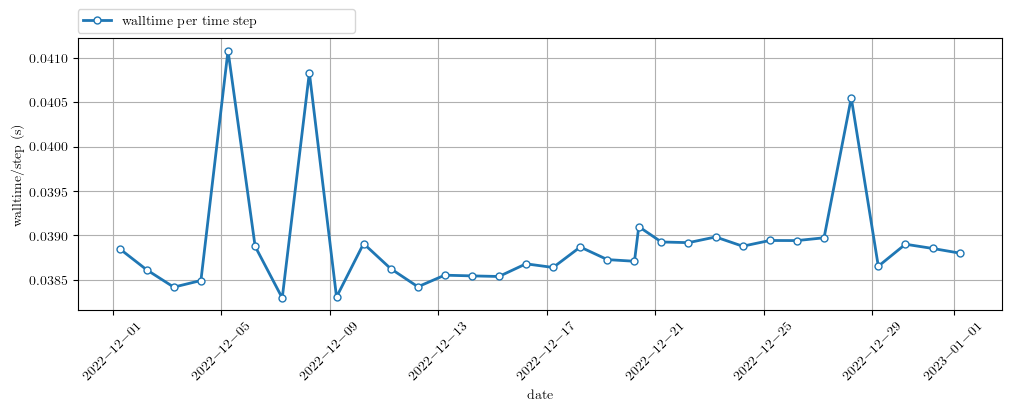
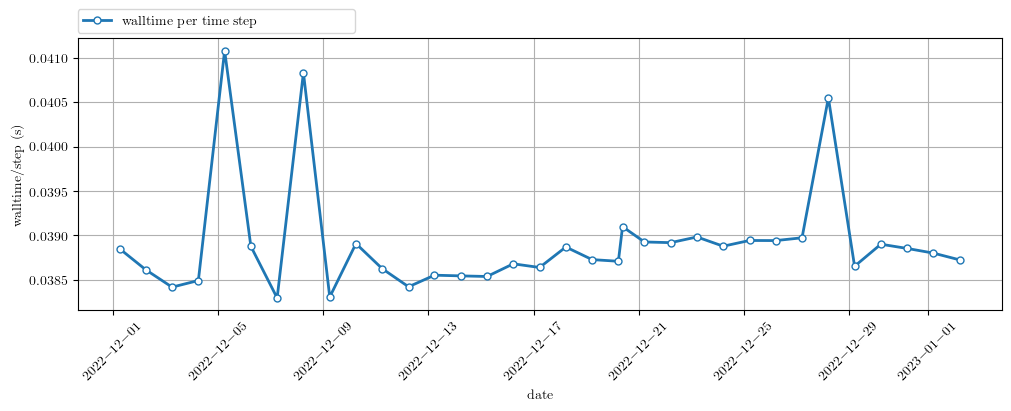
Automatic timing summary commit: lassen708 2023-01-02 05:01

diff --git a/README.md b/README.md
@@ -1,4 +1,4 @@
-Timings last ran on: 2023.01.01
+Timings last ran on: 2023.01.02
 
 # Status of production timings
 
